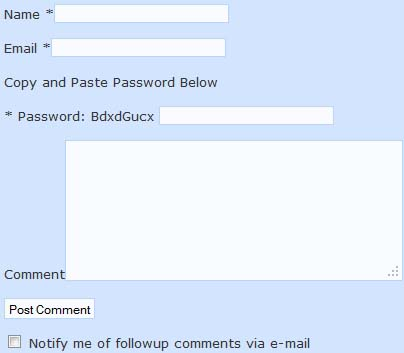
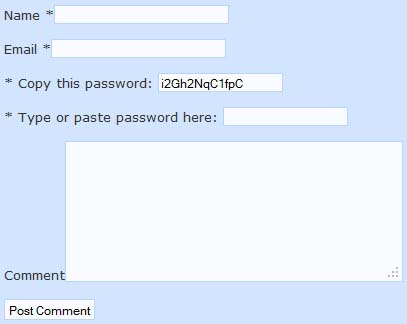
dup pwd fix, wp_head replaced, more pwd checks, new pwd form
git-svn-id: https://plugins.svn.wordpress.org/spam-free-wordpress/tags/1.4.7@401111 b8457f37-d9ea-0310-8a92-e5e31aec5664

Changed region(s): [[0.0, 0.216, 1.0, 1.0], [0.0, 0.0, 0.5644, 0.1852], [0.0, 0.1235, 0.1188, 0.1852]]

diff --git a/tl-spam-free-wordpress.php b/tl-spam-free-wordpress.php
@@ -3,7 +3,7 @@
 Plugin Name: Spam Free Wordpress
 Plugin URI: http://www.toddlahman.com/spam-free-wordpress/
 Description: Comment spam blocking plugin that uses anonymous password authentication to achieve 100% automated spam blocking with zero false positives, plus a few more features.
-Version: 1.4.1
+Version: 1.4.7
 Author: Todd Lahman, LLC
 Author URI: http://www.toddlahman.com/
 */
@@ -12,9 +12,8 @@ Author URI: http://www.toddlahman.com/
 	Copyright 2007 - 2011 by Todd Lahman, LLC.
 
     This program is free software; you can redistribute it and/or modify
-    it under the terms of the GNU General Public License as published by
-    the Free Software Foundation; either version 2 of the License, or
-    (at your option) any later version.
+    it under the terms of the GNU General Public License, version 2, as 
+    published by the Free Software Foundation.
 
     This program is distributed in the hope that it will be useful,
     but WITHOUT ANY WARRANTY; without even the implied warranty of
@@ -23,19 +22,15 @@ Author URI: http://www.toddlahman.com/
 
     You should have received a copy of the GNU General Public License
     along with this program; if not, write to the Free Software
-    Foundation, Inc., 59 Temple Place, Suite 330, Boston, MA  02111-1307  USA
+    Foundation, Inc., 51 Franklin St, Fifth Floor, Boston, MA  02110-1301  USA
 */
-
-// To remove all sfw_comment_form_password entries in the wp_postmeta table use the following SQL statement
-// sfw_comment_form_password is the Custom Field name that stores the password value for the comment form authentication
-// DELETE from wp_postmeta WHERE meta_key = "sfw_comment_form_password" ;
 
 // Add default database settings on plugin activation
 function add_default_data() {
 	$sfw_options = array(
 	'blocklist_keys' => '',
 	'remote_blocked_list' => '',
-	'pw_field_size' => '',
+	'pw_field_size' => '20',
 	'tab_index' => '',
 	'affiliate_msg' => '',
 	'toggle_stats_update' => 'disable',
@@ -48,33 +43,29 @@ function add_default_data() {
 // Runs add_default_data function above when plugin activated
 register_activation_hook( __FILE__, 'add_default_data' );
 
-// Delete the default options from database when plugin deactivated, but only if register_deactivation_hook is uncommented and active.
-// Remove // to activate register_deactivation_hook below
+// Delete the default options from database when plugin deactivated,
+// The post comment passwords can be deleted also using the following SQL statement.
+// DELETE from wp_postmeta WHERE meta_key = "sfw_comment_form_password" ;
+
+/*
+// Runs remove_default_data function above when plugin deactivated
+// Uncomment this code block if you want the all options to be deleted when plugin is deactivated, this includes number of spam blocked
 function remove_default_data() {
 delete_option('spam_free_wordpress');
 delete_option('sfw_spam_hits');
 }
 
-// Runs remove_default_data function above when plugin deactivated
 // register_deactivation_hook( __FILE__, 'remove_default_data' );
-
-/*
-The SQL statement below will delete from the wp_postmeta table the meta_key sfw_comment_form_password
-
-DELETE from wp_postmeta WHERE meta_key = "sfw_comment_form_password" ;
-
-The sfw_comment_form_password is a password assigned to each post for comment authentication.
-When editing a post, sfw_comment_form_password is the Custom Fields name, and the password is the value.
 */
 
 // Plugin version
-$spam_free_wordpress_version = "1.4.1";
+$spam_free_wordpress_version = "1.4.7";
 
 // variable used as global to retrieve option array for functions
 $wp_sfw_options = get_option('spam_free_wordpress');
 
 // Displays message on Admin settings page if using a Wordpress version older than 3.x
-function older_wp_notice () {
+function older_wp_notice() {
 	global $wp_version;
 
 	if ( version_compare($wp_version, '3.0', '<' ) ) {
@@ -82,31 +73,30 @@ function older_wp_notice () {
 	}
 }
 
-// Checks to see if key 2 comment form password exists and if not creates one in custom fields
-function comment_pass_cf_2 () {
+
+// Checks to see if comment form password exists and if not creates one in custom fields
+function sfw_comment_pass_exist_check() {
 	global $post;
-	$post_id = $post->ID;
-	$key2 = wp_generate_password(12, false);
+	$new_post_comment_pwd = wp_generate_password(12, false);
+	$sfw_pwd_exists_check = get_post_meta( $post->ID, 'sfw_comment_form_password', true );
 	
-	if( !get_post_meta( $post_id, 'sfw_comment_form_password', true ) && comments_open() ) {
-		update_post_meta($post_id, 'sfw_comment_form_password', $key2);
+	if( empty($sfw_pwd_exists_check) || !$sfw_pwd_exists_check  && comments_open() ) {
+		update_post_meta($post->ID, 'sfw_comment_form_password', $new_post_comment_pwd);
 	}
 }
+add_action('loop_start', 'sfw_comment_pass_exist_check', 1);
 
-// Calls the function that adds key 2 password to custom fields when post is loaded for the first time
-add_action('wp_head', 'comment_pass_cf_2', 1);
-
-// Creates a new key 2 comment form password each time a comment is saved in the database.
-function comment_pass_cf_new_pw () {
+// Creates a new comment form password each time a comment is saved in the database
+function sfw_new_comment_pass() {
 	global $post;
-	$post_id = $post->ID;
-	$key2 = wp_generate_password(12, false);
+	$new_comment_pwd = wp_generate_password(12, false);
+	$old_password = get_post_meta( $post->ID, 'sfw_comment_form_password', true );
 	
-	update_post_meta($post_id, 'sfw_comment_form_password', $key2);
+	update_post_meta($post->ID, 'sfw_comment_form_password', $new_comment_pwd, $old_password);
 }
 
 // Call the function to change key 2 password to custom fields when after each new comment is saved in the database.
-add_action('comment_post', 'comment_pass_cf_new_pw', 1);
+add_action('comment_post', 'sfw_new_comment_pass', 1);
 
 // Gets the remote IP address even if behind a proxy
 function get_remote_ip_address() {
@@ -122,7 +112,7 @@ function get_remote_ip_address() {
 	return $ip_address;
 }
 
-// Returns Blocklist
+// Returns Local Blocklist
 function wp_blocklist_check() {
 	global $wp_sfw_options;
 
@@ -130,22 +120,22 @@ function wp_blocklist_check() {
 	$comment_author_ip = get_remote_ip_address();
 	// do_action('wp_blocklist_check', $comment_author_ip);
 
-	$block_keys = trim( $wp_sfw_options['blocklist_keys'] );
-	if ( '' == $block_keys )
+	$local_blocklist_keys = trim( $wp_sfw_options['blocklist_keys'] );
+	if ( '' == $local_blocklist_keys )
 		return false; // If blocklist keys are empty
-	$words = explode("\n", $block_keys );
+	$local_key = explode("\n", $local_blocklist_keys );
 
-	foreach ( (array) $words as $word ) {
-		$word = trim($word);
+	foreach ( (array) $local_key as $lkey ) {
+		$lkey = trim($lkey);
 
 		// Skip empty lines
-		if ( empty($word) ) { continue; }
+		if ( empty($lkey) ) { continue; }
 
 		// Do some escaping magic so that '#' chars in the
 		// spam words don't break things:
-		$word = preg_quote($word, '#');
+		$lkey = preg_quote($lkey, '#');
 
-		$pattern = "#$word#i";
+		$pattern = "#$lkey#i";
 		if (
 			   preg_match($pattern, $comment_author_ip)
 		 )
@@ -161,22 +151,22 @@ function wp_realtime_blocklist_check() {
 	// Gets IP address of commenter
 	$comment_author_ip = get_remote_ip_address();
 
-	$block_keys = trim( wp_remote_get($wp_sfw_options['remote_blocked_list']) );
-	if ( '' == $block_keys )
+	$remote_blocklist_keys = trim( wp_remote_get($wp_sfw_options['remote_blocked_list']) );
+	if ( '' == $remote_blocklist_keys )
 		return false; // If blocklist keys are empty
-	$words = explode("\n", $block_keys );
+	$remote_key = explode("\n", $remote_blocklist_keys );
 
-	foreach ( (array) $words as $word ) {
-		$word = trim($word);
+	foreach ( (array) $remote_key as $rkey ) {
+		$rkey = trim($rkey);
 
 		// Skip empty lines
-		if ( empty($word) ) { continue; }
+		if ( empty($rkey) ) { continue; }
 
 		// Do some escaping magic so that '#' chars in the
 		// spam words don't break things:
-		$word = preg_quote($word, '#');
+		$rkey = preg_quote($rkey, '#');
 
-		$pattern = "#$word#i";
+		$pattern = "#$rkey#i";
 		if (
 			   preg_match($pattern, $comment_author_ip)
 		 )
@@ -201,10 +191,16 @@ function custom_affiliate_link() {
 // Function for comments.php file
 function tl_spam_free_wordpress_comments_form() {
 	global $wp_sfw_options;
-
 	global $post;
-	$post_id = $post->ID;
-	$sfw_comment_form_password = get_post_meta( $post_id, 'sfw_comment_form_password', true );
+	global $wp_version;
+	
+	$sfw_comment_form_password_var = get_post_meta( $post->ID, 'sfw_comment_form_password', true );
+	// Checks to see if comment form password exists and if not creates one in custom fields
+	$new_sfw_comment_form_pwd = wp_generate_password(12, false);
+	if( empty($sfw_comment_form_password_var) || !$sfw_comment_form_password_var  && comments_open() ) {
+	update_post_meta($post->ID, 'sfw_comment_form_password', $new_sfw_comment_form_pwd);
+	}
+	
 	$sfw_pw_field_size = $wp_sfw_options['pw_field_size'];
 	$sfw_tab_index = $wp_sfw_options['tab_index'];
 
@@ -215,8 +211,9 @@ function tl_spam_free_wordpress_comments_form() {
 		// Commenter IP address
 		echo "<input type='hidden' name='comment_ip' id='comment_ip' value='".get_remote_ip_address()."' />";
 		// Reader must enter this password manually on the comment form
-		echo "<p><label for='pwdmsg'><span class='pwmsg'></span> Copy and Paste Password Below</label></p>";
-		echo "<p><label for='passthis'><span class='required'>*</span> Password: ".$sfw_comment_form_password."</label>
+		echo "<p><label for='pwd_text'>* Copy this password:</label>
+		<input type='text' value='".$sfw_comment_form_password_var."' onclick='this.select()' size='20' /></p>";
+		echo "<p><label for='passthis'>* Type or paste password here:</label>
 		<input type='text' name='passthis' id='passthis' value='".$comment_passthis."' size='".$sfw_pw_field_size."' tabindex='".$sfw_tab_index."' /></p>";
 		// Shows how many comment spam have been killed on the comment form
 		if ($wp_sfw_options['toggle_stats_update'] == "enable") {
@@ -230,14 +227,19 @@ function tl_spam_free_wordpress_comments_form() {
 // Function for wp-comments-post.php file located in the root Wordpress directory. The same directory as the wp-config.php file.
 function tl_spam_free_wordpress_comments_post() {
 	global $post;
-	$post_id = $post->ID;
-	$sfw_comment_form_password = get_post_meta( $post_id, 'sfw_comment_form_password', true );
+	
+	$sfw_comment_script = get_post_meta( $post->ID, 'sfw_comment_form_password', true );
+	// Checks to see if comment form password exists and if not creates one in custom fields
+	$new_sfw_comment_script_pwd = wp_generate_password(12, false);
+	if( empty($sfw_comment_script) || !$sfw_comment_script  && comments_open() ) {
+	update_post_meta($post->ID, 'sfw_comment_form_password', $new_sfw_comment_script_pwd);
+	}
 	
 	// If the reader is logged in don't require password for wp-comments-post.php
 	if ( !is_user_logged_in() ) {
 
 		// Comment form manual password (key 2)
-		if ($_POST['passthis'] == '' || $_POST['passthis'] != $sfw_comment_form_password)
+		if ($_POST['passthis'] == '' || $_POST['passthis'] != $sfw_comment_script)
 			wp_die( __('Error 1: Click back and type in the password.', spam_counter()) );
 		
 		// Compares commenter IP address to blocked list and realtime blocked list
@@ -280,34 +282,6 @@ function spam_counter() {
 function display_spam_hits() {
 	$s_hits = get_option('sfw_spam_hits');
 	return $s_hits;
-}
-
-// Comment form filter functions for Wordpress 3.x to automatically add code to comments.php and wp-comments-post.php
-function do_spam_free_wordpress_automation() {
-	global $wp_version;
-	
-	// run the following code only if using Wordpress 3.x or greater
-	if ( version_compare($wp_version, '3.0', '>=' ) ) {
-
-		// Calls the password form for comments.php if the comment_form function is outputting comment form fields
-		add_filter('comment_form_after_fields', 'tl_spam_free_wordpress_comments_form', 1);
-	}
-}
-
-// Remove note after comment box that says which HTML tags can be used in comment
-function sfw_remove_allowed_tags_field($no_allowed_tags) {
-    unset($no_allowed_tags['comment_notes_after']);
-    return $no_allowed_tags;
-}
-
-// Removes all HTML from comment text
-function sfw_strip_html() {
-	// calls the fucntion to remove all HTML tags from comment text
-	add_action('after_setup_theme','start_removal_of_allowed_tags');
-	// Removes all HTML from comments and leaves it only as text
-	add_filter('comment_text', 'wp_filter_nohtml_kses');
-	add_filter('comment_text_rss', 'wp_filter_nohtml_kses');
-	add_filter('comment_excerpt', 'wp_filter_nohtml_kses');
 }
 
 // Register Admin Options Page
@@ -368,7 +342,7 @@ function spam_free_wordpress_options_page() {
 				
 			<h3>Password Form Customization</h3>
 				<fieldset>
-					<label><p>Password Field Size <input type="text" name="wp_sfw_options[pw_field_size]" value="<?php echo $wp_sfw_options['pw_field_size']; ?>" /></label>
+					<label><p>Password Field Size <input type="text" name="wp_sfw_options[pw_field_size]" value="<?php echo $wp_sfw_options['pw_field_size']; ?>" /> Default is 20.</label>
 				</fieldset>
 				<fieldset>
 					<label>Tab Index </font><input type="text" name="wp_sfw_options[tab_index]" value="<?php echo $wp_sfw_options['tab_index']; ?>" /></p></label>
@@ -400,7 +374,7 @@ function spam_free_wordpress_options_page() {
 			<p>Copy and paste the line of code below into a template file to display the custom share link.</p>
 			<code>&lt;?php if(function_exists('custom_affiliate_link')) { custom_affiliate_link(); } ?&gt;</code>
 			
-			<input type="hidden" name="page_options" value="wp_sfw_options" />
+			<input type="hidden" name="page_options" value="<?php echo $wp_sfw_options ?>" />
 			<input type="hidden" name="action" value="update" />
 			<p class="submit">
 			<input type="submit" name="Submit" class="button-primary" value="<?php _e('Save Changes') ?>" />
@@ -448,16 +422,38 @@ function spam_free_wordpress_options_page() {
 
 }
 
+// Remove note after comment box that says which HTML tags can be used in comment
+function sfw_remove_allowed_tags_field($no_allowed_tags) {
+    unset($no_allowed_tags['comment_notes_after']);
+    return $no_allowed_tags;
+}
+
 // Strips out html from comment form when enabled
-if ($wp_sfw_options['toggle_html'] == "enable") {
-	sfw_strip_html();
+if ($wp_sfw_options['toggle_html'] == "enable" && version_compare($wp_version, '3.0', '>=' )) {
+	// Removes all HTML from comments and leaves it only as text
+	add_filter('comment_text', 'wp_filter_nohtml_kses');
+	add_filter('comment_text_rss', 'wp_filter_nohtml_kses');
+	add_filter('comment_excerpt', 'wp_filter_nohtml_kses');
+	// remove tags from below comment form
 	add_filter('comment_form_defaults','sfw_remove_allowed_tags_field');
 }
 
-// Calls the wp-comments-post.php authentication
-add_action('pre_comment_on_post', 'tl_spam_free_wordpress_comments_post', 1);
+// Adds password field to comment form is > Wordpress 3.0 and using comment_form function to generate comment form
+function do_spam_free_wordpress_automation() {
+	global $wp_version;
+	
+	// run the following code only if using Wordpress 3.x or greater
+	if ( version_compare($wp_version, '3.0', '>=' ) ) {
+
+		// Calls the password form for comments.php if the comment_form function is outputting comment form fields
+		add_filter('comment_form_after_fields', 'tl_spam_free_wordpress_comments_form', 1);
+	}
+}
+
 // Calls the Wordpress 3.x code for admin settings page
 add_action('init', 'do_spam_free_wordpress_automation', 1);
+// Calls the wp-comments-post.php authentication
+add_action('pre_comment_on_post', 'tl_spam_free_wordpress_comments_post', 1);
 // Add Admin Options Page
 add_action('admin_menu', 'register_spam_free_wordpress_options_page');
 
